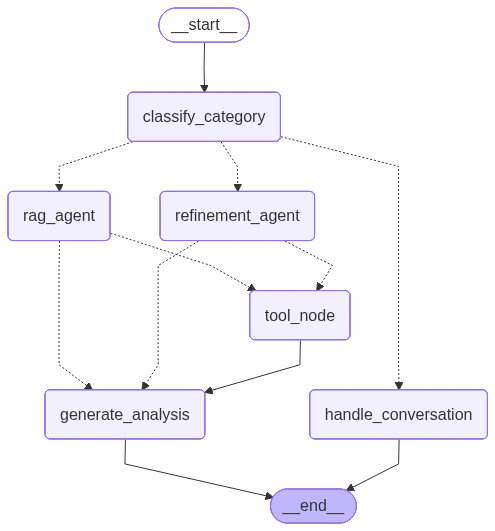
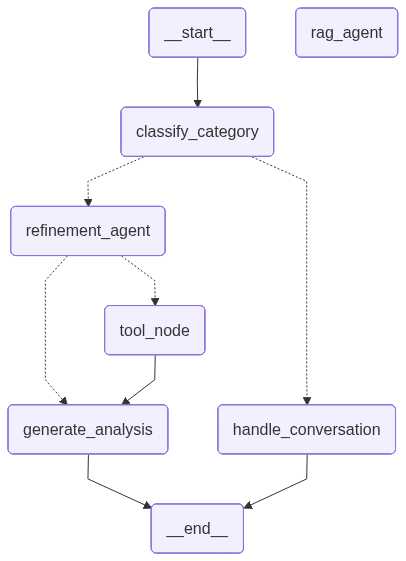
imporved structure od refiner agent to remove crossing lines from graph

diff --git a/backend/app/agents/refiner_agent.py b/backend/app/agents/refiner_agent.py
@@ -31,8 +31,9 @@ tool_node = ToolNode(all_tools)
 class RefinerState(TypedDict):
     original_prompt: str
     refined_prompt: str
-    prompt_category: Literal["clarity", "precision", "creative", "greeting", "help_request", "rag_query"]
+    prompt_category: Literal["clarity", "precision", "creative", "greeting", "help_request"]
     framework_used: str
+    has_document: bool  # Flag to indicate if RAG processing is needed
     messages: Annotated[list, add_messages]
     
 # Graph Nodes
@@ -46,29 +47,36 @@ def classify_category(state: RefinerState) -> dict:
 
     greeting_patterns = ["hello", "hi", "hey", "greetings", "good morning", "good afternoon", "good evening"]
     if any(prompt_lower.startswith(p) for p in greeting_patterns):
-        return {"prompt_category": "greeting", "original_prompt": original_prompt}
+        return {"prompt_category": "greeting", "original_prompt": original_prompt, "has_document": False}
 
     help_patterns = ["framework", "help", "guide", "suggest", "recommend", "options", "what can you do"]
     if any(p in prompt_lower for p in help_patterns):
-        return {"prompt_category": "help_request", "original_prompt": original_prompt}
+        return {"prompt_category": "help_request", "original_prompt": original_prompt, "has_document": False}
 
-    # Checking for RAG content
-    rag_keywords = ["from the document", "summarize the file", "what does it say about", "in the document", "based on the file", "according to the document"]
-    if any(keyword in prompt_lower for keyword in rag_keywords):
-        return {"prompt_category": "rag_query", "original_prompt": original_prompt}
+    # Checking for document/image uploads or RAG content indicators
+    rag_keywords = [
+        "from the document", "summarize the file", "what does it say about", "in the document", 
+        "based on the file", "according to the document", "upload", "uploaded", "document", 
+        "pdf", "image", "picture", "analyze this", "what's in this"
+    ]
+    has_document = any(keyword in prompt_lower for keyword in rag_keywords) or os.path.exists("./chroma_db")
 
     analysis_prompt = f"""Analyze the user prompt and categorize it into ONLY one of the following:
-    "clarity", "precision", "creative", or "rag_query".
+    "clarity", "precision", or "creative".
 User Prompt: "{original_prompt}"
 Return only the single category name."""
 
     response = llm.invoke(analysis_prompt)
     category = response.content.strip().lower()
 
-    if category not in ["clarity", "precision", "creative", "rag_query"]:
+    if category not in ["clarity", "precision", "creative"]:
         category = "clarity"
 
-    return {"prompt_category": category, "original_prompt": original_prompt}
+    return {
+        "prompt_category": category, 
+        "original_prompt": original_prompt,
+        "has_document": has_document
+    }
 
 def handle_conversation(state: RefinerState) -> dict:
     category = state["prompt_category"]
@@ -132,21 +140,46 @@ Ready to see what we can create together? """
     
     return {"messages": [AIMessage(content=response_content)]}
 
-def refinement_agent(state: RefinerState) -> dict:
+# Prompt refinement with integrated RAG processing when documents are present.
+def process_prompt_refinement(state: RefinerState) -> dict:
     category = state["prompt_category"]
     prompt_to_refine = state["original_prompt"]
+    has_document = state.get("has_document", False)
     
-    if category == "clarity": selected_tools = clarity_tool_list
-    elif category == "precision": selected_tools = precision_tool_list
-    else: selected_tools = creative_tool_list
-
-    # Adding RAG tools if a vector store exists
-    if os.path.exists("./chroma_db"):
+    # Select appropriate tools based on category and document presence
+    if category == "clarity": 
+        selected_tools = clarity_tool_list
+    elif category == "precision": 
+        selected_tools = precision_tool_list
+    else: 
+        selected_tools = creative_tool_list
+    
+    # Add RAG tools if document is present
+    if has_document and os.path.exists("./chroma_db"):
         selected_tools = selected_tools + rag_tool_list
 
     llm_with_selected_tools = llm.bind_tools(tools=selected_tools, parallel_tool_calls=False)
 
-    system_prompt = f"""You are a prompt refinement expert helping users create better, more effective prompts.
+    if has_document:
+        system_prompt = f"""You are a prompt refinement expert helping users create better, more effective prompts.
+
+The user submitted this prompt: "{prompt_to_refine}"
+Category: {category}
+Document Available: Yes - The user has uploaded or referenced documents that should be used.
+
+Your task is to:
+1. First, if the prompt involves document analysis, call the document_search tool to gather relevant information
+2. Then, select the most appropriate refinement tool to enhance this prompt using both the original prompt and any document context
+
+Focus on making the prompt:
+- More specific and actionable with document context
+- Clearer in requirements and expectations
+- Better structured for getting quality results from both the prompt and available documents
+- More detailed about the desired output format
+
+You must call the appropriate tools to both access documents (if needed) and refine the prompt."""
+    else:
+        system_prompt = f"""You are a prompt refinement expert helping users create better, more effective prompts.
 
 The user submitted this prompt: "{prompt_to_refine}"
 Category: {category}
@@ -167,19 +200,6 @@ You must call exactly one refinement tool that best fits this prompt's needs."""
 
     return {"messages": [response], "framework_used": framework_used}
 
-def rag_agent(state: RefinerState) -> dict:
-    """Agent brain for RAG tasks that uses search tool to answer questions."""
-    question = state["original_prompt"]
-    
-    # Giving the RAG agent ONLY the search tool to avoid confusion.
-    llm_with_search = llm.bind_tools(tools=[rag_tool_list[0]], parallel_tool_calls=False) 
-
-    system_prompt = f"""You are a helpful assistant. Answer the user's question based on the context from a document search.
-Your task is to call the `document_search` tool with a query relevant to the user's question.
-User's question: "{question}" """
-
-    response = llm_with_search.invoke(system_prompt)
-    return {"messages": [response]}
 
 # Creating the final report for the user after a tool has been run.
 def generate_analysis(state: RefinerState) -> dict:
@@ -199,18 +219,29 @@ def generate_analysis(state: RefinerState) -> dict:
     if not refined_prompt:
         refined_prompt = state.get("refined_prompt", "No refined prompt available")
 
-    if category == "rag_query":
-        # Synthesize the search results into a final answer
-        synthesis_prompt = f"""The user asked: "{original_prompt}"
-You have performed a search and found the following context from the document:
----
-{refined_prompt}
----
-Based ONLY on this context, provide a clear and concise answer to the user's question."""
-        final_response = llm.invoke(synthesis_prompt)
-        return {"messages": [AIMessage(content=final_response.content)]}
+    # Handle both regular refinement and document-aware refinement
+    has_document = state.get("has_document", False)
+    
+    if has_document:
+        # Special handling for document-aware refinement
+        analysis_prompt = f"""You are an enthusiastic and friendly prompt engineering coach who just helped transform a user's prompt using their uploaded documents! 
+
+The user originally wanted: "{original_prompt}"
+You used the {framework_used} approach along with their document context to create this amazing enhanced version: {refined_prompt}
+
+Write a warm, engaging response that shows your genuine excitement about the transformation. Include:
+
+1. **Enthusiastic acknowledgment** - Show you understand their goal and you're excited to help them use their documents effectively
+2. **Highlight the document magic** - Point out how you incorporated their document content to make the prompt more specific and powerful
+3. **Present the masterpiece** - Show off the refined prompt that now leverages their actual data/content
+4. **Celebrate the success** - End with genuine enthusiasm about how much better their results will be now that they're using their own documents
+
+Write like you're a passionate friend who just helped them unlock the power of their own content. Use emojis, exclamation points, and conversational phrases. Make them feel proud of what you created together!
+        """
+        final_response = llm.invoke(analysis_prompt)
+        return {"messages": [AIMessage(content=final_response.content)], "refined_prompt": refined_prompt}
     else:
-        # This is the original analysis logic for refinement tasks
+        # Regular refinement without documents
         analysis_prompt = f"""You are an enthusiastic and friendly prompt engineering coach who just helped transform a user's prompt. The user originally wanted: "{original_prompt}"
 
 You used the {framework_used} approach to create this amazing enhanced version: {refined_prompt}
@@ -232,8 +263,7 @@ builder = StateGraph(RefinerState)
 
 builder.add_node("classify_category", classify_category)
 builder.add_node("handle_conversation", handle_conversation)
-builder.add_node("refinement_agent", refinement_agent)
-builder.add_node("rag_agent", rag_agent)
+builder.add_node("process_prompt_refinement", process_prompt_refinement)
 builder.add_node("tool_node", tool_node)
 builder.add_node("generate_analysis", generate_analysis)
 
@@ -244,34 +274,24 @@ def route_after_classification(state: RefinerState):
     if category in ["greeting", "help_request"]:
         return "handle_conversation"
     else:
-        return "refinement_agent"
+        return "process_prompt_refinement"
 
 builder.add_conditional_edges("classify_category", route_after_classification, {
     "handle_conversation": "handle_conversation",
-    "refinement_agent": "refinement_agent"
+    "process_prompt_refinement": "process_prompt_refinement"
 })
+
 builder.add_edge("handle_conversation", END)
 
-def route_after_refinement(state: RefinerState):
+def route_to_tools(state: RefinerState):
     # Check if the last message has tool calls that need to be executed
     if state["messages"] and hasattr(state["messages"][-1], 'tool_calls') and state["messages"][-1].tool_calls:
         return "tool_node"
     return "generate_analysis"
 
-def route_after_rag(state: RefinerState):
-    # Check if the last message has tool calls that need to be executed
-    if state["messages"] and hasattr(state["messages"][-1], 'tool_calls') and state["messages"][-1].tool_calls:
-        return "tool_node"
-    return "refinement_agent"
-
-builder.add_conditional_edges("refinement_agent", route_after_refinement, {
-    "tool_node": "tool_node", 
+builder.add_conditional_edges("process_prompt_refinement", route_to_tools, {
+    "tool_node": "tool_node",
     "generate_analysis": "generate_analysis"
-})
-
-builder.add_conditional_edges("rag_agent", route_after_rag, {
-    "tool_node": "tool_node", 
-    "refinement_agent": "refinement_agent"
 })
 
 builder.add_edge("tool_node", "generate_analysis")
